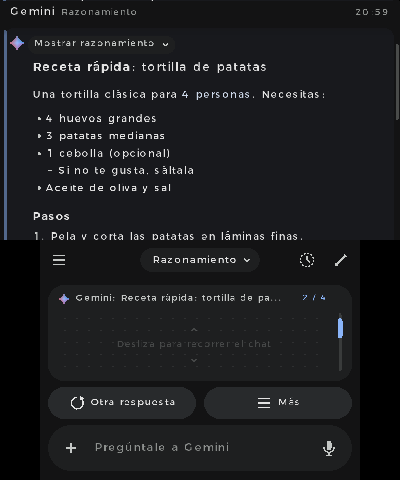
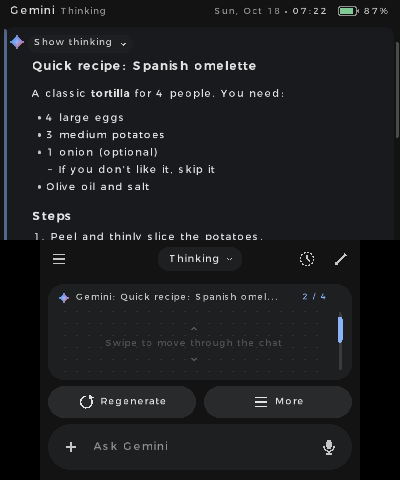
Capturas nuevas para el README (1.1.0)
Se renuevan las capturas de inicio, chat y selector de modelo con la
cabecera nueva (fecha y batería) y se añaden tres de las novedades:
deslizar chats, uso de los modelos y compartir por QR. Hechas en el
emulador con la interfaz en inglés.

También se acorta la traducción inglesa de «Límite por minuto según
Google», que no cabía en su tarjeta.

diff --git a/tools/i18n_tr.py b/tools/i18n_tr.py
@@ -322,7 +322,7 @@ A + ' Foto   ' + X + ' Cambiar cámara   ' + B + ' Cancelar': (A + ' Photo   ' +
 'Tokens hoy': ('Tokens today', '今日のトークン'),
 '%d correctas': ('%d successful', '成功 %d'),
 'Último minuto': ('Last minute', '直近1分'),
-'Límite por minuto según Google': ('Per-minute limit reported by Google', 'Googleが示す1分あたりの上限'),
+'Límite por minuto según Google': ('Per-minute limit (Google)', 'Googleが示す1分あたりの上限'),
 'Peticiones en 60 s': ('Requests in 60 s', '60秒間のリクエスト'),
 '%s entrada · %s salida': ('%s input · %s output', '入力 %s · 出力 %s'),
 'hace %d s': ('%d s ago', '%d秒前'),

diff --git a/source/i18n_tab.h b/source/i18n_tab.h
@@ -842,7 +842,7 @@ static const TrEntry TR_TAB[] = {
      "Last minute",
      "直近1分"},
     {"Límite por minuto según Google",
-     "Per-minute limit reported by Google",
+     "Per-minute limit (Google)",
      "Googleが示す1分あたりの上限"},
     {"Peticiones en 60 s",
      "Requests in 60 s",

diff --git a/README.md b/README.md
@@ -11,6 +11,11 @@
   <img src="docs/chat.png" width="260" alt="Conversación con Markdown">
   <img src="docs/modelos.png" width="260" alt="Selector de modelo">
 </p>
+<p align="center">
+  <img src="docs/deslizar.png" width="260" alt="Deslizar un chat para renombrarlo o eliminarlo">
+  <img src="docs/uso.png" width="260" alt="Uso de los modelos">
+  <img src="docs/compartir.png" width="260" alt="Compartir un mensaje por QR">
+</p>
 
 ## Descargar e instalar
 
